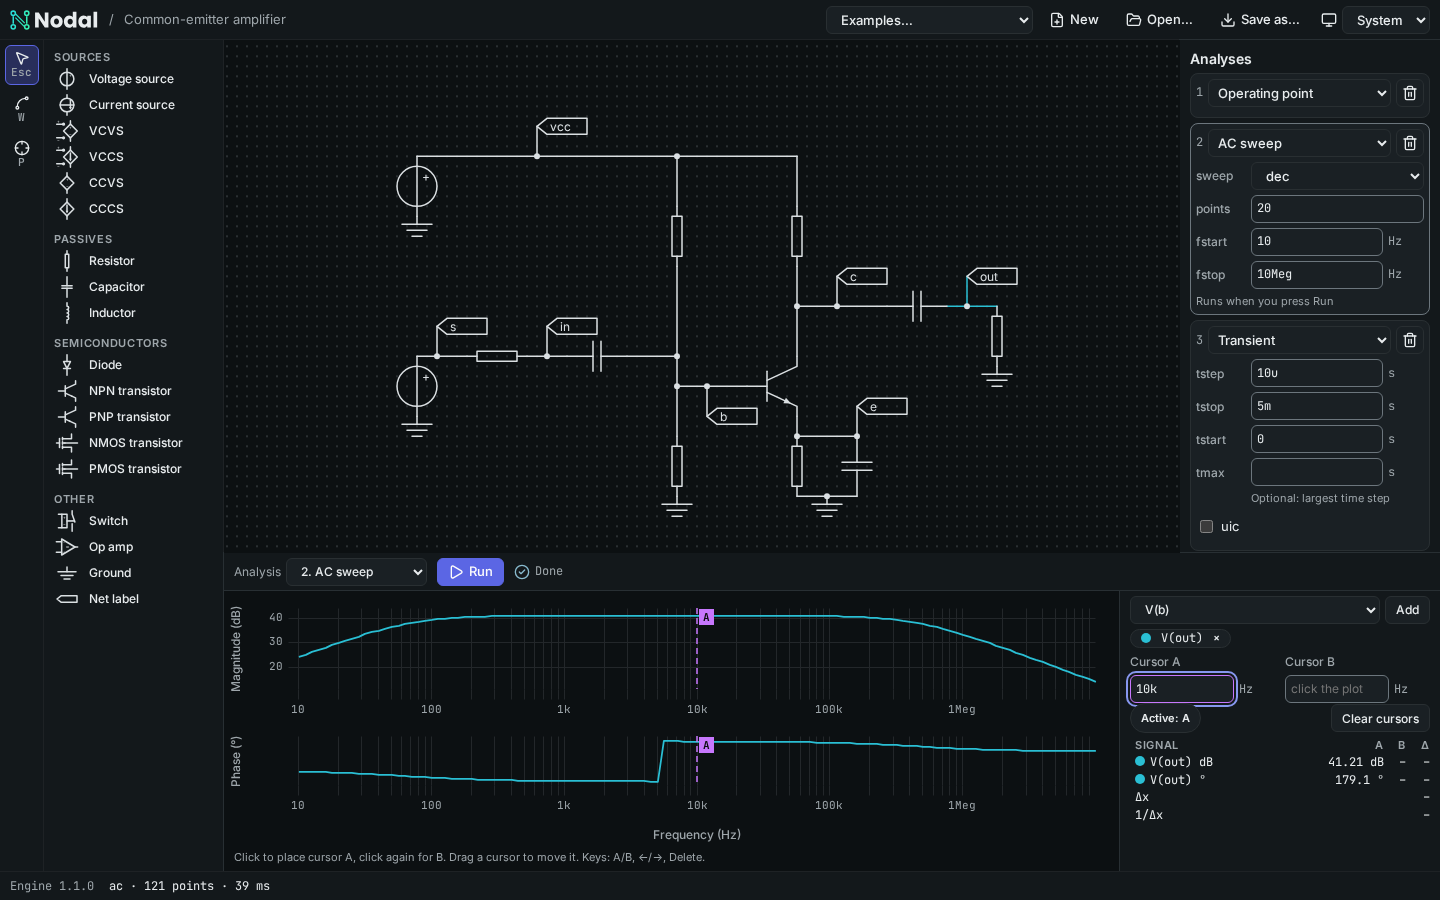
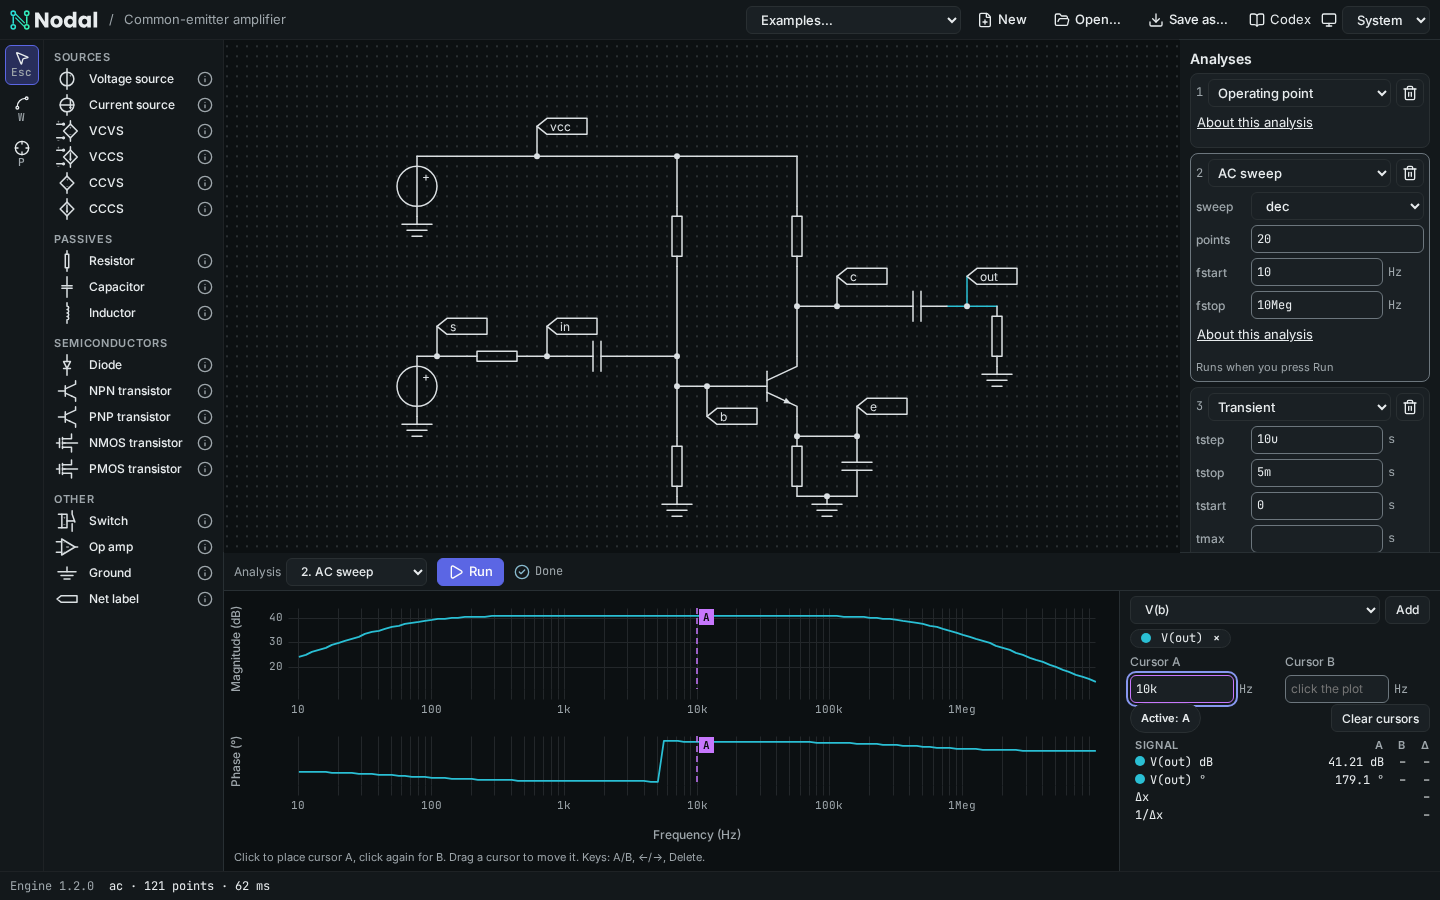
docs: codex in the user guide and README
Adds a Codex section to the user guide with a drawer screenshot, a README feature line and codex screenshot, and credits rows for KaTeX and marked. The README and guide screenshots are retaken because the parts panel changed. The CHANGELOG gets its 1.2.0 entry.

diff --git a/apps/web/e2e/guide.screenshots.ts b/apps/web/e2e/guide.screenshots.ts
@@ -92,3 +92,16 @@ test("Bode view of the CE amplifier", async ({ page }) => {
   await setCursor("Cursor A", "10k");
   await page.screenshot({ path: shot("bode-ce-amplifier") });
 });
+
+test("codex drawer for the NPN transistor", async ({ page }) => {
+  await openExample(page, "ce-amplifier");
+  await page.getByRole("button", { name: "About NPN transistor" }).click();
+  const drawer = page.getByRole("complementary", { name: "Codex" });
+  await expect(drawer.getByRole("heading", { level: 2 })).toBeVisible();
+  await expect(drawer.locator("math").first()).toBeAttached();
+  // Move the pointer off the info button so its tooltip is not in the shot.
+  await page.mouse.move(700, 700);
+  await expect(page.getByRole("tooltip")).toHaveCount(0);
+  await page.waitForTimeout(500);
+  await page.screenshot({ path: shot("codex-drawer-npn") });
+});

diff --git a/docs/user-guide.md b/docs/user-guide.md
@@ -6,15 +6,15 @@ Nodal is a schematic editor and circuit simulator that runs in your browser. Thi
 
 Open the live editor at https://tristanhottier.github.io/Nodal/. Nothing is installed and no account is needed. The status bar at the bottom shows the engine version once the simulation engine has loaded.
 
-The fastest way to see the app work is an example. A new editor shows a "Start from an example" prompt over the empty canvas with one button per example. The top bar also has an "Examples…" menu (labelled "Open example" for screen readers). Pick "Common-emitter amplifier" to load the circuit below. There are eight examples: a resistive divider, an RC low-pass, an RLC band-pass, half-wave and full-wave rectifiers, a common-emitter amplifier, a CMOS inverter and an inverting op-amp amplifier.
+The fastest way to see the app work is an example. A new editor shows a "Start from an example" prompt over the empty canvas with one button per example. The top bar also has an "Examples…" menu (labelled "Open example" for screen readers). Pick "Common-emitter amplifier" to load the circuit below. There are twelve examples: a resistive divider, an RC low-pass, an RLC band-pass, half-wave and full-wave rectifiers, a common-emitter amplifier, a CMOS inverter, an inverting op-amp amplifier, controlled sources, a current source driving an inductor and a capacitor, a switch with hysteresis, and a push-pull emitter follower.
 
 ![The editor with the common-emitter amplifier loaded](user-guide/editor-ce-amplifier.png)
 
 The window has these areas, from top to bottom and left to right:
 
-- The top bar holds the Nodal mark, the project title, the file actions (Examples…, New, Open…, Save as…) and the Theme select. The title is the part of the project name before the first ": ", and the full name appears as a tooltip.
+- The top bar holds the Nodal mark, the project title, the file actions (Examples…, New, Open…, Save as…), the Codex link and the Theme select. The title is the part of the project name before the first ": ", and the full name appears as a tooltip.
 - The tool rail is the narrow icon column at the left edge. It holds Select, Wire and Probe, each with its shortcut under the icon and in its tooltip.
-- The parts panel lists the parts in four groups: Sources, Passives, Semiconductors and Other.
+- The parts panel lists the parts in four groups: Sources, Passives, Semiconductors and Other. Each part has an info button that opens its codex entry.
 - The canvas is in the middle, and the inspector is on the right.
 - The run bar and results sit under the canvas.
 - The status bar at the bottom shows the engine version, messages and the run readout.
@@ -173,6 +173,22 @@ The table lists each signal at A, at B and the difference, followed by Δx and, 
 An AC sweep draws two plots with a shared log frequency axis: magnitude in dB on top and phase in degrees below. The cursor table gives both values at each cursor position.
 
 ![Bode plot of the common-emitter amplifier](user-guide/bode-ce-amplifier.png)
+
+## Codex
+
+The codex explains the parts and analyses. It has 26 entries: 18 parts (including the net label), 4 analyses and 4 concepts (MNA, small-signal models, convergence and integration methods). Each entry has a short description, typical uses and the equations Nodal solves. Part entries add a table of the parameters with their units and defaults, and the pin names drawn on the symbol. Most entries end with a "Try it" link that opens an example using that part or analysis (22 of the 26 do). Equations are typeset with KaTeX, and screen readers get them as MathML.
+
+There are three ways in:
+
+- Click the info button next to a part in the parts panel. The entry opens in a drawer that replaces the inspector.
+- Select a part or look at an analysis card, then choose "About this part" or "About this analysis". The drawer opens on that entry.
+- Choose Codex in the top bar for the full page at `#/codex`. It lists every entry and has a search box that filters by name and keyword.
+
+![The codex drawer showing the NPN transistor next to the common-emitter amplifier](user-guide/codex-drawer-npn.png)
+
+Esc closes the drawer, and your selection stays as it was. "Open full page" in the drawer shows the same entry on its own page. Every entry has its own address, `#/codex/<id>` (for example `#/codex/npn`), so you can link to it.
+
+An engineer review of the equations against `docs/reference/` and the engine sources is recorded in the "Equation review" section of the [M10 plan](plans/2026-11-26-m10-component-codex.md), with its findings. The codex is documentation, so no test checks its prose.
 
 ## Files
 

diff --git a/README.md b/README.md
@@ -21,19 +21,22 @@
 
 <p align="center"><a href="https://tristanhottier.github.io/Nodal/"><strong>Try it: tristanhottier.github.io/Nodal</strong></a> (no install, no account)</p>
 
-Nodal draws a schematic and simulates it in the browser. The engine is written in Rust and runs as WebAssembly in a Web Worker. Version 1.1.0 is released.
+Nodal draws a schematic and simulates it in the browser. The engine is written in Rust and runs as WebAssembly in a Web Worker. Version 1.2.0 is released.
 
 ## Features
 
 - Draw a schematic: place parts, rotate and mirror them, draw orthogonal wires, label nets, edit values, and check the problems list. Save and load `.nodal.json` files. Work is autosaved in the browser.
 - Run DC operating point, DC sweep, AC small-signal (linear, decade and octave sweeps) and transient analysis (trapezoidal and Gear integration, pulse, sine and PWL sources, `uic`, switch hysteresis). Runs can be cancelled.
 - See operating-point values on the schematic. Plot results with probes, two cursors and a Bode view. Engine errors are marked on the schematic.
-- Open one of eight examples: divider, RC low-pass, RLC band-pass, half-wave rectifier, full-wave bridge rectifier, common-emitter amplifier, CMOS inverter and inverting op-amp. The [user guide](docs/user-guide.md) walks through drawing and simulating.
+- Open one of twelve examples: divider, RC low-pass, RLC band-pass, half-wave rectifier, full-wave bridge rectifier, common-emitter amplifier, CMOS inverter, inverting op-amp, controlled sources, a current source into an inductor and a capacitor, a switch with hysteresis, and a push-pull emitter follower. The [user guide](docs/user-guide.md) walks through drawing and simulating.
+- Read the codex: 26 entries (18 parts, 4 analyses and 4 concepts) with prose, equations, parameter tables, pin names on the symbol and a "Try it" example. Open it from the info button next to a part, from "About this part" in the inspector, or from the Codex link in the top bar. An engineer review of the equations is recorded in the [M10 plan](docs/plans/2026-11-26-m10-component-codex.md).
 - Switch between light and dark themes (it follows your OS by default). The editor works from 1024 px wide; in narrower windows the schematic is shown read-only.
 - Devices: R, L, C, V, I, E, G, H and F elements, an ideal op-amp, diode, BJT, MOSFET Level 1 and voltage-controlled switch, with junction and overlap capacitances in AC and transient. Sources can be DC, AC, pulse, sine or PWL.
 - `nodal-cli` has three commands: `run` simulates a netlist, `export-spice` prints an ngspice deck, and `validate` compares results with the ngspice goldens in `validation/`.
 
 Not in v1: digital logic, microcontroller emulation, accounts and sharing, PCB layout. Nothing else described in these docs exists unless [`docs/ROADMAP.md`](docs/ROADMAP.md) marks it as done.
+
+![The codex drawer open on the NPN transistor entry, next to the common-emitter amplifier](docs/assets/codex.png)
 
 ![RC low-pass transient response with cursors A and B](docs/assets/transient.png)
 
@@ -161,6 +164,8 @@ If you use Nodal in academic work, cite it with the metadata in [`CITATION.cff`]
 | Inter (UI font, self-hosted Latin and Greek subsets) | [Inter](https://rsms.me/inter/) via `@fontsource-variable/inter` | SIL Open Font License 1.1 |
 | JetBrains Mono (numbers and code, self-hosted Latin and Greek subsets) | [JetBrains Mono](https://www.jetbrains.com/lp/mono/) via `@fontsource-variable/jetbrains-mono` | SIL Open Font License 1.1 |
 | Lucide (UI icons) | [`lucide-react`](https://lucide.dev/) | ISC |
+| KaTeX 0.19.1 (equations in the codex; CSS and fonts shipped) | [KaTeX](https://katex.org/) | MIT |
+| marked 18.2.1 (codex Markdown, rendered at build time only) | [marked](https://marked.js.org/) | MIT |
 | Poppins (outlined in the wordmark) | [Poppins](https://fonts.google.com/specimen/Poppins) | SIL Open Font License 1.1 |
 
 Details and copyright lines are in [`docs/brand/CREDITS.md`](docs/brand/CREDITS.md).

diff --git a/CHANGELOG.md b/CHANGELOG.md
@@ -11,6 +11,24 @@ The format is based on [Keep a Changelog](https://keepachangelog.com/en/1.1.0/),
 - Community files: contributing guide, code of conduct, security policy, citation metadata, issue and pull request templates, CODEOWNERS, CodeQL analysis and Dependabot updates.
 - README badges and screenshots in `docs/assets/`.
 
+## [1.2.0] - 2026-11-27
+
+### Added
+
+- The component codex: 26 entries (18 parts including the net label, 4 analyses and 4 concepts) with prose, KaTeX equations (MathML for screen readers), generated parameter tables, pin names on the symbol and a "Try it" example. Open it from the info button next to each part in the parts panel, from "About this part" and "About this analysis" in the inspector (a drawer that replaces the inspector), or from the Codex link in the top bar. The full page is at `#/codex` with search, and each entry has its own address, `#/codex/<id>`.
+- Four examples: controlled sources, a current source into an inductor and a capacitor, a switch with hysteresis, and a push-pull emitter follower.
+- Pin names are shown on the symbols in the codex.
+- An engineer review of the codex equations, recorded in the M10 plan.
+
+### Fixed
+
+- The VCCS and CCVS gain fields now show their units (siemens and ohms).
+
+### Changed
+
+- The parts panel is 180 px wide to fit the info buttons.
+- README and user-guide screenshots were retaken.
+
 ## [1.1.0] - 2026-11-23
 
 ### Added
@@ -40,6 +58,7 @@ The format is based on [Keep a Changelog](https://keepachangelog.com/en/1.1.0/),
 - **Content and performance (M7):** eight example projects, the user guide, and a performance budget measured in CI.
 - **Design and release (M8):** one coherent visual design from a single token file, light and dark themes, a read-only schematic view below 1024 px, WCAG 2.2 AA checks with axe-core, contrast tests, visual regression screenshots, and Lighthouse limits on the deployed app.
 
-[Unreleased]: https://github.com/TristanHottier/Nodal/compare/v1.1.0...HEAD
+[Unreleased]: https://github.com/TristanHottier/Nodal/compare/v1.2.0...HEAD
+[1.2.0]: https://github.com/TristanHottier/Nodal/compare/v1.1.0...v1.2.0
 [1.1.0]: https://github.com/TristanHottier/Nodal/compare/v1.0.0...v1.1.0
 [1.0.0]: https://github.com/TristanHottier/Nodal/releases/tag/v1.0.0

diff --git a/docs/brand/CREDITS.md b/docs/brand/CREDITS.md
@@ -13,3 +13,8 @@ The font files are served unmodified, self-hosted from the app's own origin. The
 ## Icons (ISC)
 
 - Lucide (https://lucide.dev), `lucide-react` 1.73.0, ISC licence. Some Lucide icons derive from Feather (MIT). Icons are imported one by one, so only the used glyphs ship. Schematic symbols are drawn by hand to IEC 60617 and are not from Lucide.
+
+## Codex (MIT)
+
+- KaTeX (https://katex.org) 0.19.1, MIT licence. The stylesheet and fonts ship with the app so equations render without a network call.
+- marked (https://marked.js.org) 18.2.1, MIT licence. It turns the codex Markdown into HTML at build time and is not part of the shipped bundle.
